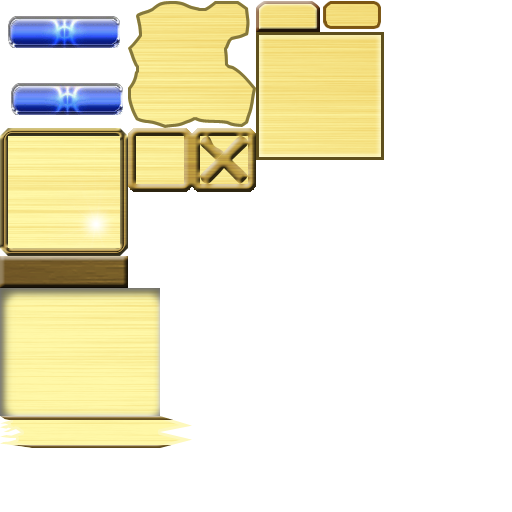
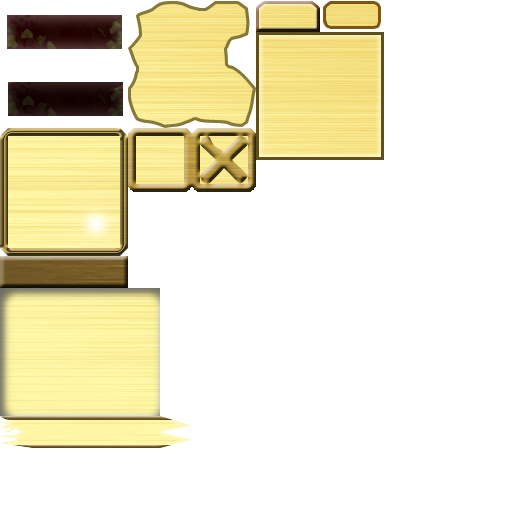
Beautiful background for start menu (Ba Na mountain) with gaudy and changeable gui element's text color

Changed region(s): [[0.0, 0.1562, 0.25, 0.25], [0.0, 0.0312, 0.25, 0.0938]]

diff --git a/Simple Game Framework/D3(with SGF)/StartMenu.h b/Simple Game Framework/D3(with SGF)/StartMenu.h
@@ -41,11 +41,14 @@ public:
 		irr::gui::IGUIEnvironment* env=emgr->getCore()->getGraphicDevice()->getGUIEnvironment();
 		irr::gui::ICursorControl* cursor = emgr->getCore()->getGraphicDevice()->getCursorControl();
 		irr::core::dimension2d<s32> screenSize = env->getVideoDriver()->getScreenSize();
-		env->addButton(irr::core::rect<irr::s32>((screenSize.Width-80)/2,(screenSize.Height-60)/2,
-			                                     (screenSize.Width+80)/2,
+		Utility::setTxColor(emgr,irr::video::SColor(255,255,0,0),EGDC_BUTTON_TEXT);
+		env->addImage(env->getVideoDriver()->getTexture("textures/startBG.jpg"),position2d<s32>(0,0),false,0,-1,0);
+		
+		env->addButton(irr::core::rect<irr::s32>((screenSize.Width-150),(screenSize.Height-60)/2,
+			                                     (screenSize.Width),
 												 (screenSize.Height+60)/2), 0, 1,  L"Start", L"Bắt đầu game");
-		env->addButton(irr::core::rect<irr::s32>((screenSize.Width-80)/2,(screenSize.Height-60)/2+50,
-			                                     (screenSize.Width+80)/2,
+		env->addButton(irr::core::rect<irr::s32>((screenSize.Width-150),(screenSize.Height-60)/2+50,
+			                                     (screenSize.Width),
 												 (screenSize.Height+60)/2+50), 0, 2,  L"Quit", L"Thoát khỏi game");
 		emgr->getCore()->getGUIEvent()->addDelegate(&onGUI);
 		cursor->setPosition(screenSize.Width/2,screenSize.Height/2);//Đặt con trỏ chuột đúng giữa nút bắt đầu.

diff --git a/Simple Game Framework/D3(with SGF)/Utility.cpp b/Simple Game Framework/D3(with SGF)/Utility.cpp
@@ -13,7 +13,17 @@ void Utility::setFont(sgfEntityManager *mgr, const irr::c8 *fileName)
 			{
 				env->getSkin()->setFont(font);
 				env->getSkin()->setFont(font, irr::gui::EGDF_TOOLTIP);
+				env->getSkin()->setFont(font, irr::gui::EGDF_BUTTON);
 			}
+			
+}
+
+void Utility::setTxColor(sgfEntityManager *mgr, const irr::video::SColor col, irr::gui::EGUI_DEFAULT_COLOR which)
+{
+	irr::gui::IGUIEnvironment* env=mgr->getCore()->getGraphicDevice()->getGUIEnvironment();
+	irr::video::SColor co = env->getSkin()->getColor(which);
+	co.set(col.getAlpha(), col.getRed(), col.getBlue(), col.getGreen());
+	env->getSkin()->setColor(which, co);
 }
 
 irr::gui::IGUIButton* Utility::createGUIBtn(sgfEntityManager *mgr, irr::video::ITexture *tex, irr::core::position2df pos, wchar_t *tooltiptext)

diff --git a/Simple Game Framework/D3(with SGF)/Utility.h b/Simple Game Framework/D3(with SGF)/Utility.h
@@ -7,5 +7,6 @@ public:
 	Utility();
 public:
 	static void setFont(sgfEntityManager *mgr, const irr::c8 *fileName);
+	static void setTxColor(sgfEntityManager *mgr, const irr::video::SColor col, irr::gui::EGUI_DEFAULT_COLOR which);
 	static irr::gui::IGUIButton* createGUIBtn(sgfEntityManager *mgr, irr::video::ITexture *tex, irr::core::position2df pos, wchar_t *tooltiptext);
 };
